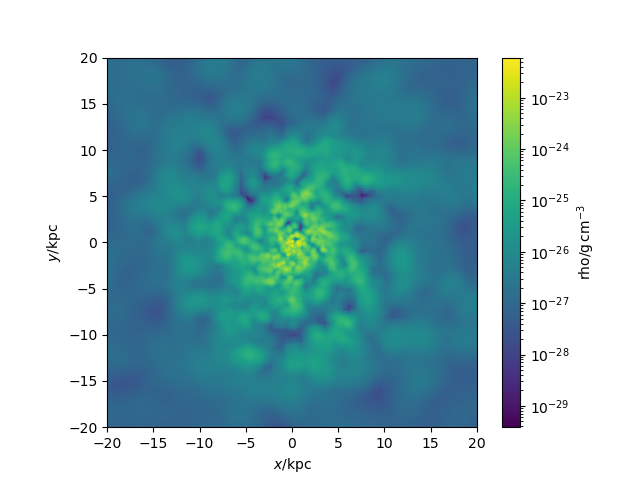
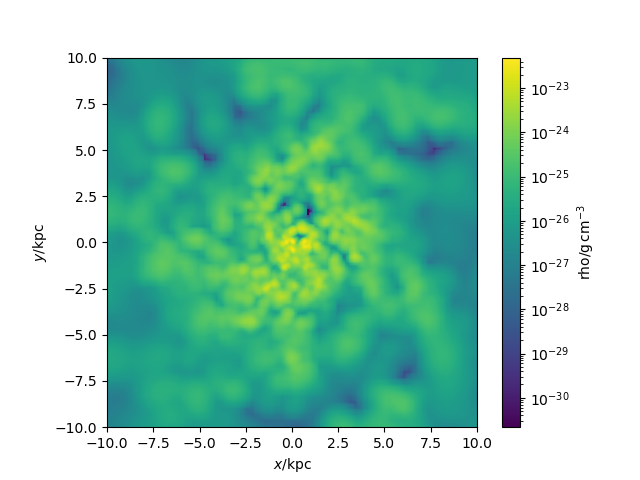
axis updated to match

diff --git a/r223/galaxy223_iongas.py b/r223/galaxy223_iongas.py
@@ -13,13 +13,14 @@ s=pynbody.load('/mnt/data0/jillian/gguaman/r223/cosmo25p.768sg1bwK1BHe75.007779'
 s.physical_units()
 
 #centering halo
-pynbody.analysis.angmom.faceon(s)
+#pynbody.analysis.angmom.faceon(s)
+pynbody.analysis.angmom.sideon(s)
 
 #filter to only use ionised gas
 GasFilter = pynbody.filt.HighPass('temp','15848 K')
 
 #creating image to show velocity of ionised gas
-sph.image(s.g[GasFilter],qty="vr",vmin=-20,width=40,denoise=True,approximate_fast=False,log=False)
+sph.image(s.g[GasFilter],qty="vr",vmin=-20,width=20,denoise=True,approximate_fast=False,log=False)
 
 #plt.show()
-plt.savefig("galaxy223_iongas.png")
+plt.savefig("galaxy223_iongas(side).png")

diff --git a/r223/galaxy223_velocity.py b/r223/galaxy223_velocity.py
@@ -7,13 +7,16 @@ import matplotlib.pyplot as plt
 
 #loading snapshot
 s=pynbody.load('/mnt/data0/jillian/gguaman/r223/cosmo25p.768sg1bwK1BHe75.007779')
+
+#setting to physical units
 s.physical_units()
 
 #centering halo
-pynbody.analysis.angmom.faceon(s)
+#pynbody.analysis.angmom.faceon(s)
+pynbody.analysis.angmom.sideon(s)
 
 #creating gas velocity plot
-sph.image(s.g,qty="vr",width=40,denoise=True,approximate_fast=False,log=False)
+sph.image(s.g,qty="vr",width=20,denoise=True,approximate_fast=False,log=False)
 
 #plt.show()
-plt.savefig("galaxy223_velocity.png")
+plt.savefig("galaxy223_velocity(side).png")

diff --git a/r223/galaxy223_temp.py b/r223/galaxy223_temp.py
@@ -12,10 +12,11 @@ s=pynbody.load('/mnt/data0/jillian/gguaman/r223/cosmo25p.768sg1bwK1BHe75.007779'
 s.physical_units()
 
 #centering halo
-pynbody.analysis.angmom.faceon(s)
+#pynbody.analysis.angmom.faceon(s)
+pynbody.analysis.angmom.sideon(s)
 
 #creating slice to show gas temp
-sph.image(s.g,qty="temp",width=40,denoise=True,approximate_fast=False,log=True)
+sph.image(s.g,qty="temp",width=20,denoise=True,approximate_fast=False,log=True)
 
 #plt.show()
-plt.savefig("galaxy223_temp.png")
+plt.savefig("galaxy223_temp(side).png")

diff --git a/r223/galaxy223_stars.py b/r223/galaxy223_stars.py
@@ -10,10 +10,12 @@ s=pynbody.load('/mnt/data0/jillian/gguaman/r223/cosmo25p.768sg1bwK1BHe75.007779'
 s.physical_units()
 
 #centering halo
-pynbody.analysis.angmom.faceon(s)
+#pynbody.analysis.angmom.faceon(s)
+pynbody.analysis.angmom.sideon(s)
 
 #creating image using default bands(i,v,u)
-pynbody.plot.stars.render(s,width='12 kpc')
+pynbody.plot.stars.render(s,width='20 kpc')
 
 #plt.show()
-plt.savefig("galaxy223_stars.png")
+#plt.savefig("galaxy223_stars.png")
+plt.savefig("galaxy223_stars(side).png")

diff --git a/r223/galaxy223_dens.py b/r223/galaxy223_dens.py
@@ -10,10 +10,11 @@ s=pynbody.load('/mnt/data0/jillian/gguaman/r223/cosmo25p.768sg1bwK1BHe75.007779'
 s.physical_units()
 
 #centering halo and aligning disk
-pynbody.analysis.angmom.faceon(s)
+#pynbody.analysis.angmom.faceon(s)
+pynbody.analysis.angmom.sideon(s)
 
 #creating gas density slice
-sph.image(s.g,qty="rho",units="g cm^-3",width=40)
+sph.image(s.g,qty="rho",units="g cm^-3",width=20)
 
 #plt.show()
-plt.savefig("galaxy223_dens.png")
+plt.savefig("galaxy223_dens(side).png")
